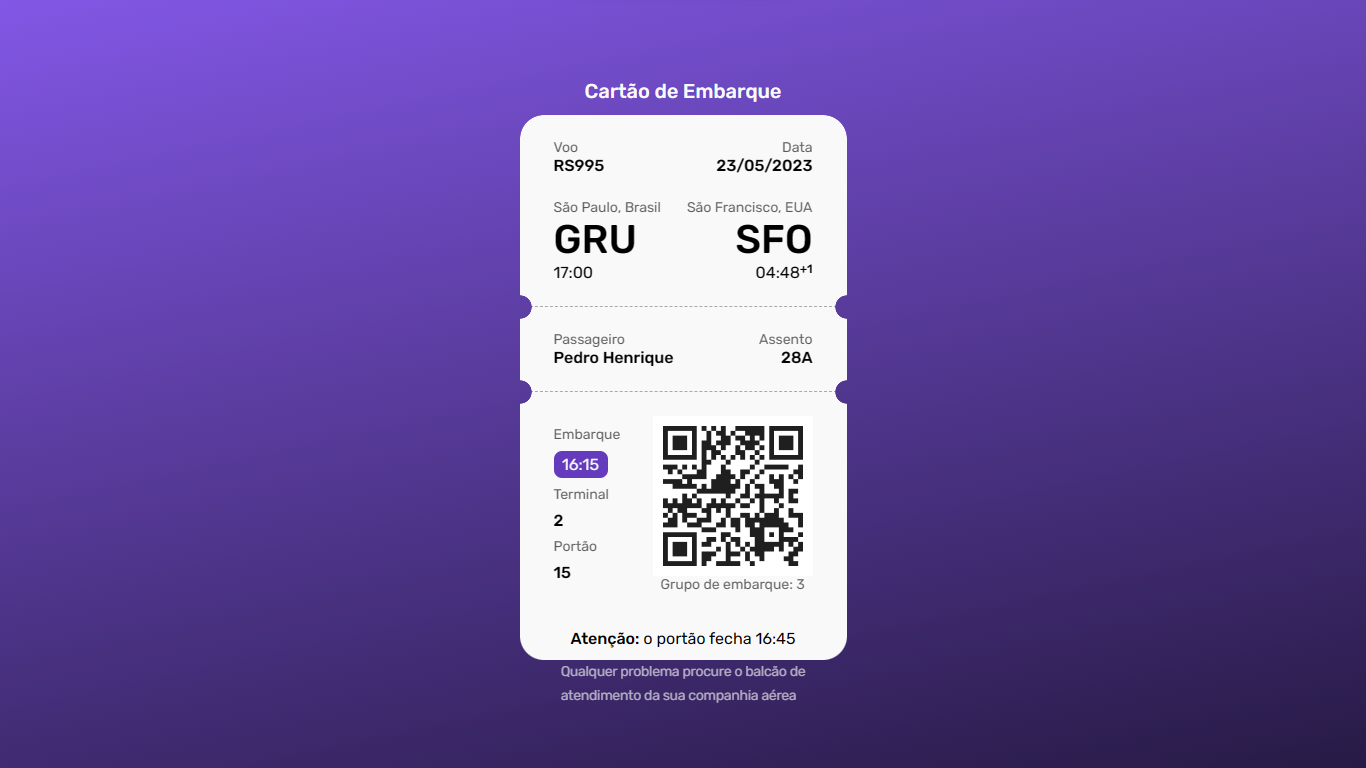
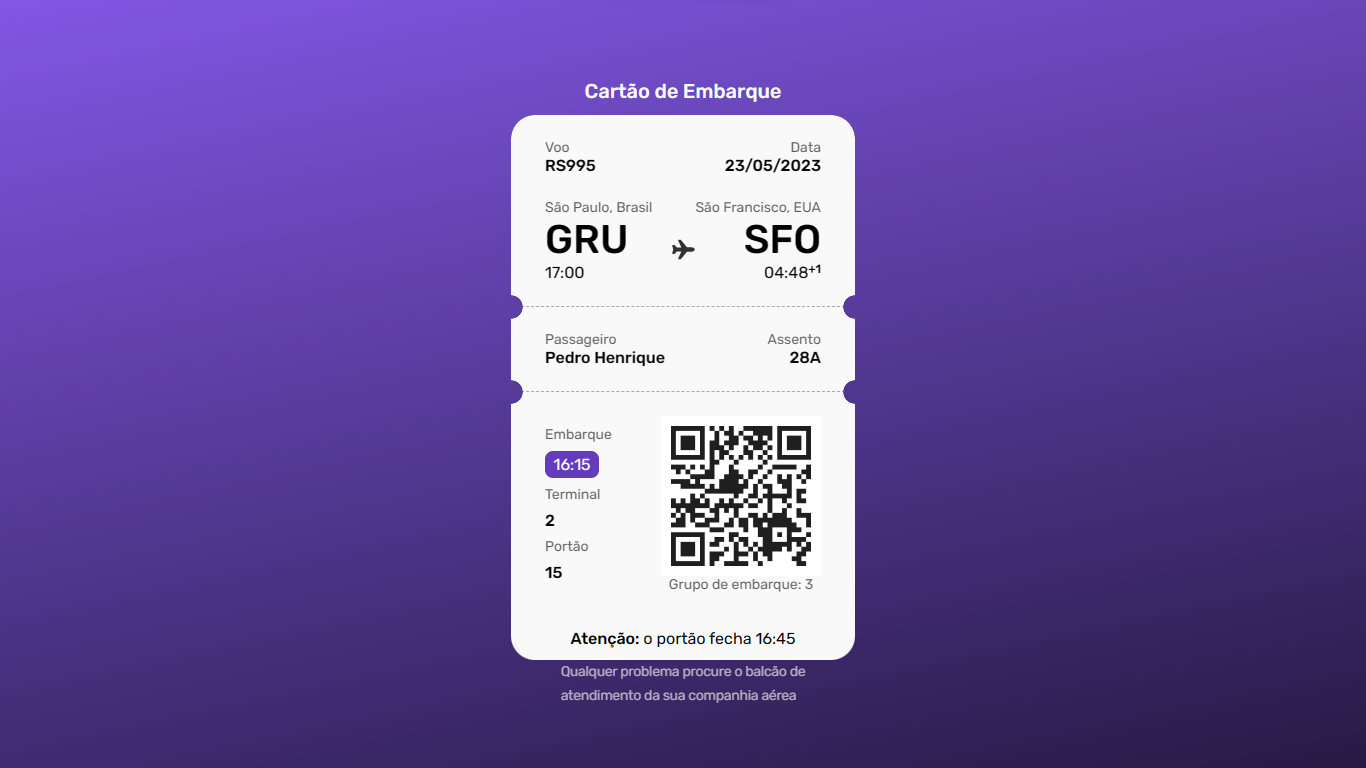
adicionando ícone svg do avião

Changed region(s): [[0.369, 0.1562, 0.6457, 0.875]]

diff --git a/index.html b/index.html
@@ -31,6 +31,11 @@
                 <p class="bigtitle">GRU</p>
                 <p class="time-title">17:00</p>
               </div>
+              <div class="card-middle">
+                <svg width="23" height="21" viewBox="0 0 23 21" fill="none" xmlns="http://www.w3.org/2000/svg">
+                  <path d="M8.24782 20.25H7.00001C6.87463 20.25 6.75126 20.2185 6.64118 20.1585C6.53111 20.0984 6.43783 20.0118 6.3699 19.9064C6.30196 19.801 6.26153 19.6803 6.25229 19.5552C6.24306 19.4302 6.26532 19.3048 6.31704 19.1906L9.3386 12.5227L4.80157 12.4219L3.14688 14.4267C2.83141 14.8233 2.57969 15 1.93751 15H1.09751C0.964509 15.0043 0.832439 14.9764 0.71249 14.9188C0.59254 14.8612 0.488245 14.7755 0.408444 14.6691C0.296881 14.5186 0.187194 14.2636 0.294069 13.8998L1.22313 10.5717C1.23016 10.5469 1.2386 10.522 1.24798 10.4977C1.24844 10.4953 1.24844 10.4929 1.24798 10.4906C1.23829 10.4663 1.23 10.4414 1.22313 10.4161L0.293132 7.06687C0.19235 6.71016 0.302507 6.46078 0.413132 6.31406C0.487417 6.21549 0.583794 6.13573 0.694515 6.08118C0.805235 6.02664 0.92721 5.99883 1.05063 6H1.93751C2.41704 6 2.88251 6.21516 3.15626 6.5625L4.77673 8.53359L9.3386 8.46609L6.31798 1.80984C6.26618 1.69568 6.24384 1.57036 6.25298 1.44533C6.26211 1.3203 6.30245 1.19956 6.37029 1.09414C6.43813 0.988715 6.53131 0.901982 6.64132 0.841864C6.75132 0.781747 6.87464 0.750163 7.00001 0.75H8.26141C8.43739 0.753536 8.61032 0.79667 8.76734 0.876197C8.92437 0.955724 9.06146 1.0696 9.16844 1.20937L15.0302 8.33438L17.7381 8.26312C17.9364 8.25234 18.4858 8.24859 18.6128 8.24859C21.2031 8.25 22.75 9.09094 22.75 10.5C22.75 10.9434 22.5728 11.7656 21.3874 12.2887C20.6875 12.5981 19.7538 12.7547 18.6119 12.7547C18.4863 12.7547 17.9383 12.7509 17.7372 12.7402L15.0297 12.668L9.15344 19.793C9.04637 19.9321 8.9094 20.0454 8.75265 20.1246C8.59589 20.2037 8.42337 20.2465 8.24782 20.25Z" fill="black" fill-opacity="0.8"/>
+                  </svg>
+              </div>
               <div class="card-right">
                 <span class="subtitle">Data</span>
                 <p class="title">23/05/2023</p>

diff --git a/styles/style.css b/styles/style.css
@@ -115,9 +115,15 @@ html {
 
 }
 
+.card-middle {
+  margin: 100px 0 0 20px;
+}
+
 .card-date .card-right {
   display: flex;
   flex-direction: column;
+  align-items: center;
+  justify-content: center;
   margin-left: auto;
 }
 
